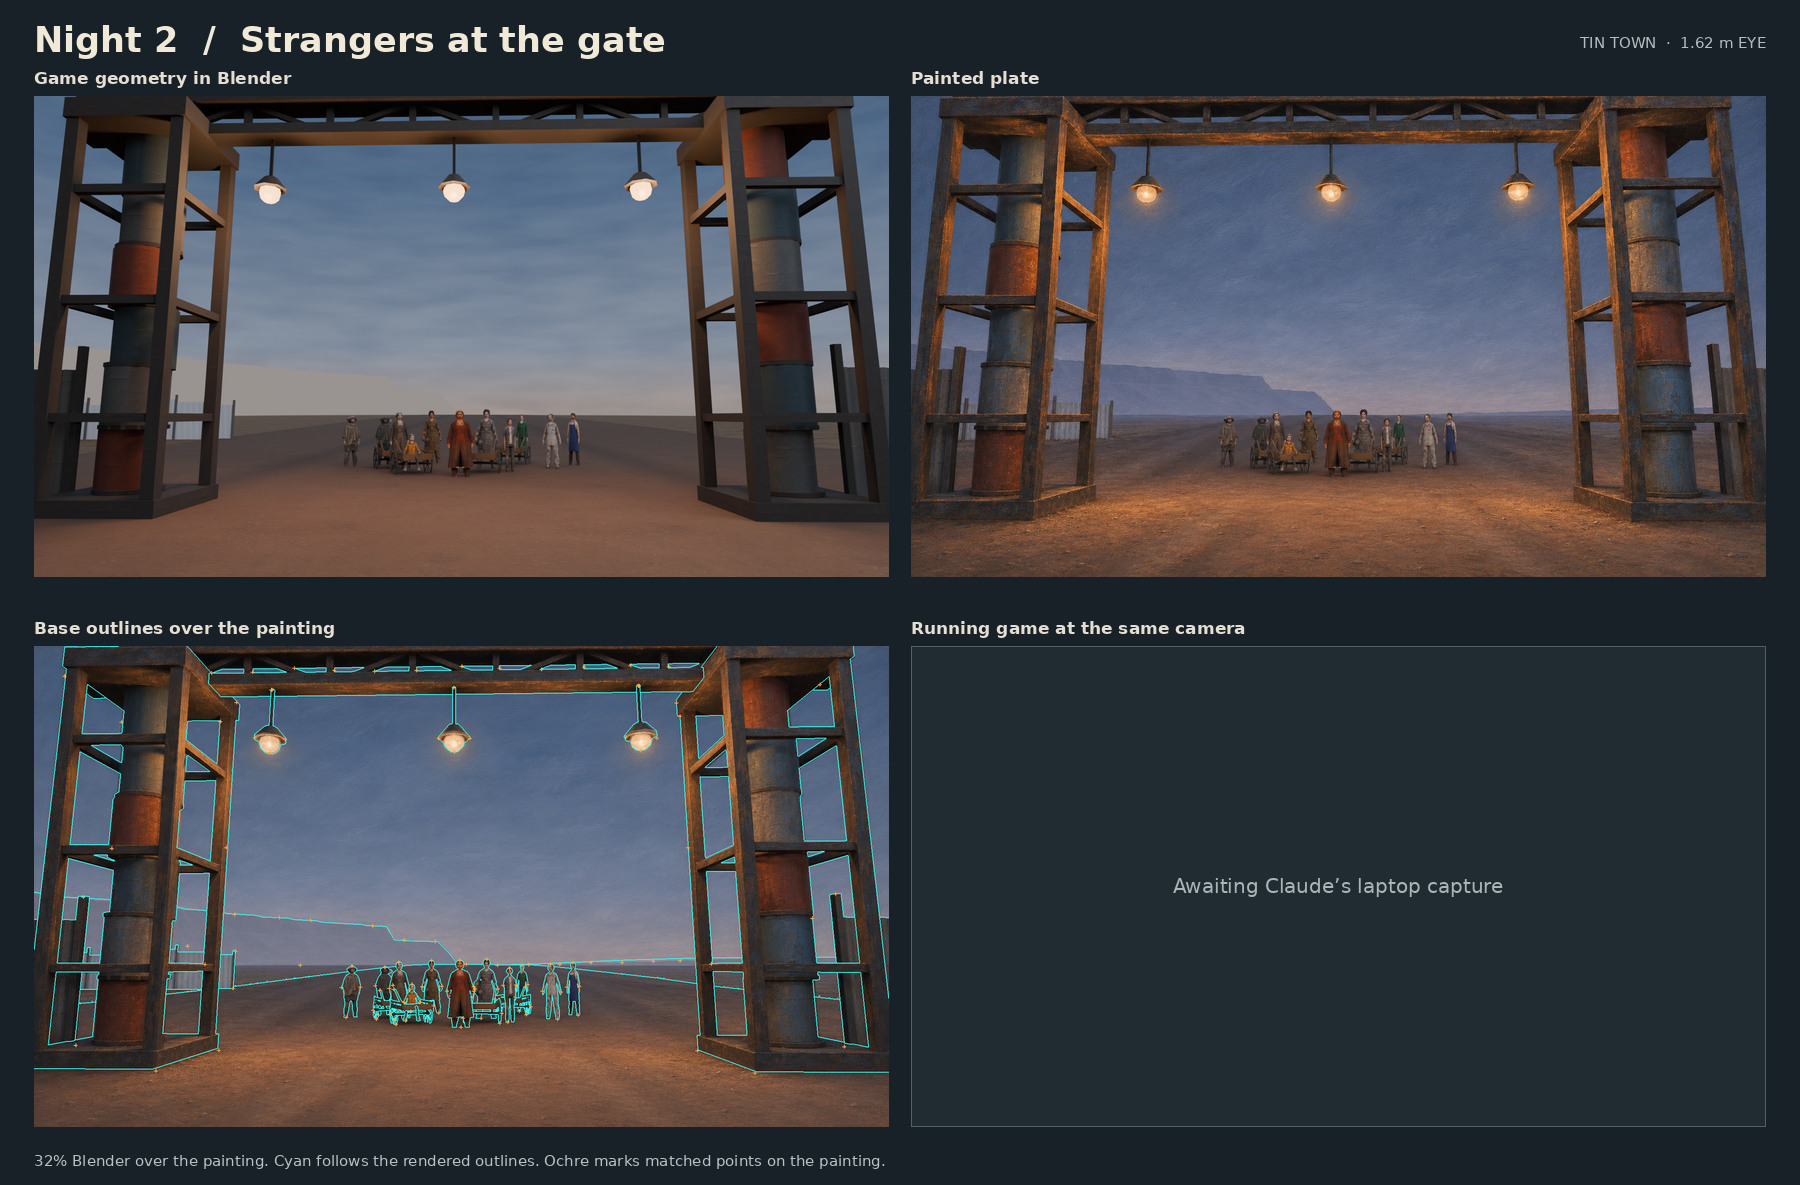
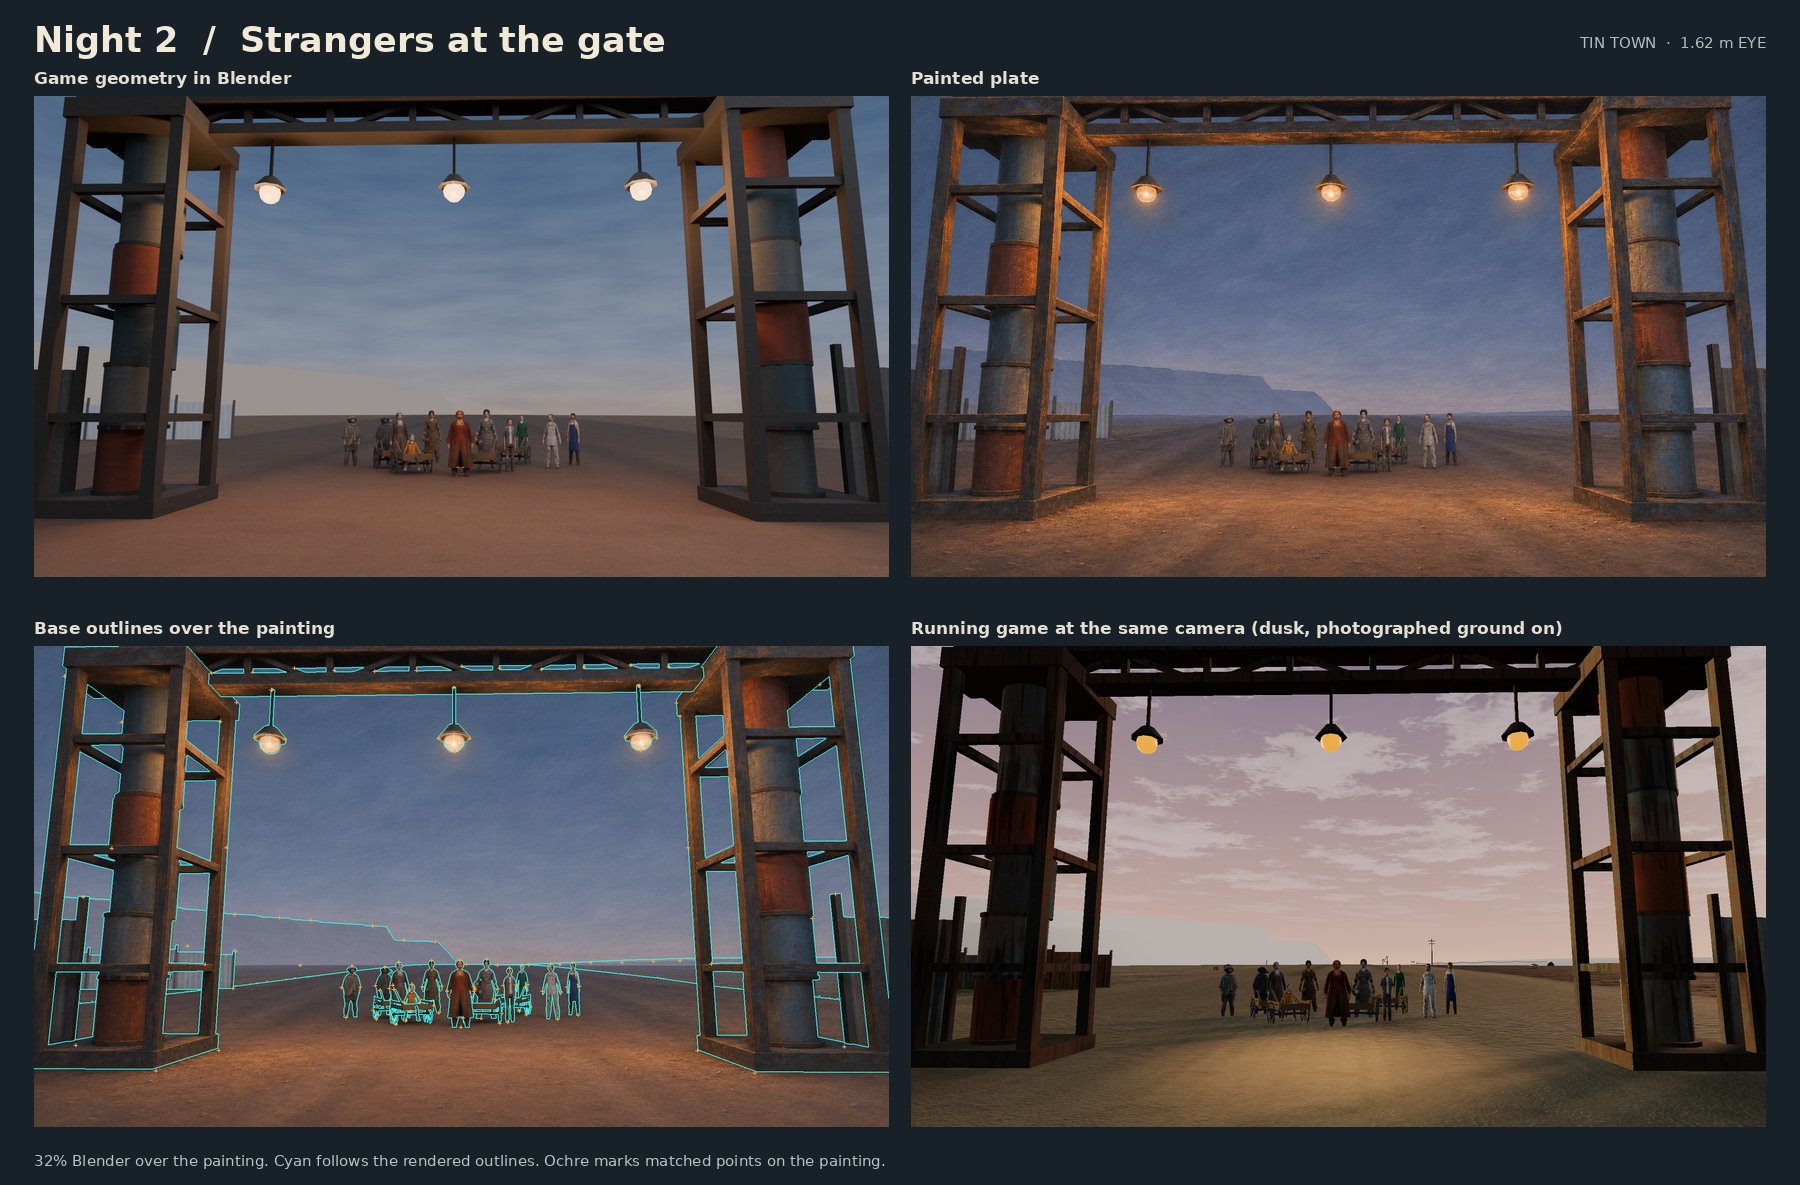
STORY-PLATE-NIGHT-2: the running game on the sheet and Claude's verdict
The game and the painting read as one place, and the game looks poor beside it,
so the trial stops at this plate and Part 2 is not built.

Changed region(s): [[0.4978, 0.5308, 0.9956, 0.9679]]

diff --git a/docs/board/looks/story-plates/night-2-review.md b/docs/board/looks/story-plates/night-2-review.md
@@ -16,6 +16,14 @@ The stage exports the game's detailed and coarse ground and road meshes. The Eas
 
 The sheet overlays 32% Blender on the painting. Cyan traces IDs from the same Cycles pass as the base image. Ochre marks 126 corresponding points on the painting. Each person, cart and gate assembly was first matched across a ±46 px search. Local edge matching and native-pixel inspection located individual seams, crowns and contact points. The largest marked displacement was 8.5 px at the right post's front foot. The maxima were 1.4 px for people, 1.0 px for carts and 6.1 px for lamps. In a separate trace through 967 visible sky/terrain columns, the painted ridge lay from 3 px above to 5 px below the Blender ridge. An independent reviewer traced the paint against the actual game's terrain and found a median of 1.1 px and a maximum of 8.9 px over 901 unobstructed columns. The faint road ruts converge toward the people in both views. Their worn edges become broad under the foreground dust. [Native point pairs](../../../../tools/art/story-plates/night-2-registration.csv)
 
+## Claude's verdict (19 November 2026)
+
+The lower right panel is the running game at the plate's camera, at Light the Town's dusk, with the photographed ground on (`scablands-realism`). Without it the ground is plain brown and the lamp pool is missing.
+
+- **One place: yes.** Every post, lamp, cart and person in the painting sits where the game puts it.
+- **Does the game look poor beside it: yes.** The painting's lamps throw warm light on the posts, the drums and the people. The game's lamps light only a patch of ground, so the posts and people stay flat and dark. The game's sky is a warm mauve where the painting is a cold blue dusk. The game's people stand stiffly in a row, like figurines.
+
+By the card's rule the trial stops at this one plate. Nothing goes where the game loads it, and Part 2 is not built. The painting stays as the look the game's own gate scene should reach: lamp light on the posts and people, a blue dusk for Night 2, people standing and sitting as people do (Wim on the cart).
 ## Claude's laptop comparison
 
 From the repository root, run these commands with Blender 4.5 with OpenImageDenoise, Node, and Python with NumPy and Pillow. The harness uses an isolated QA tab. It takes the game's own composer output at the staged eye, aim and lens and writes `laptop.png` at 1920 × 1080.
